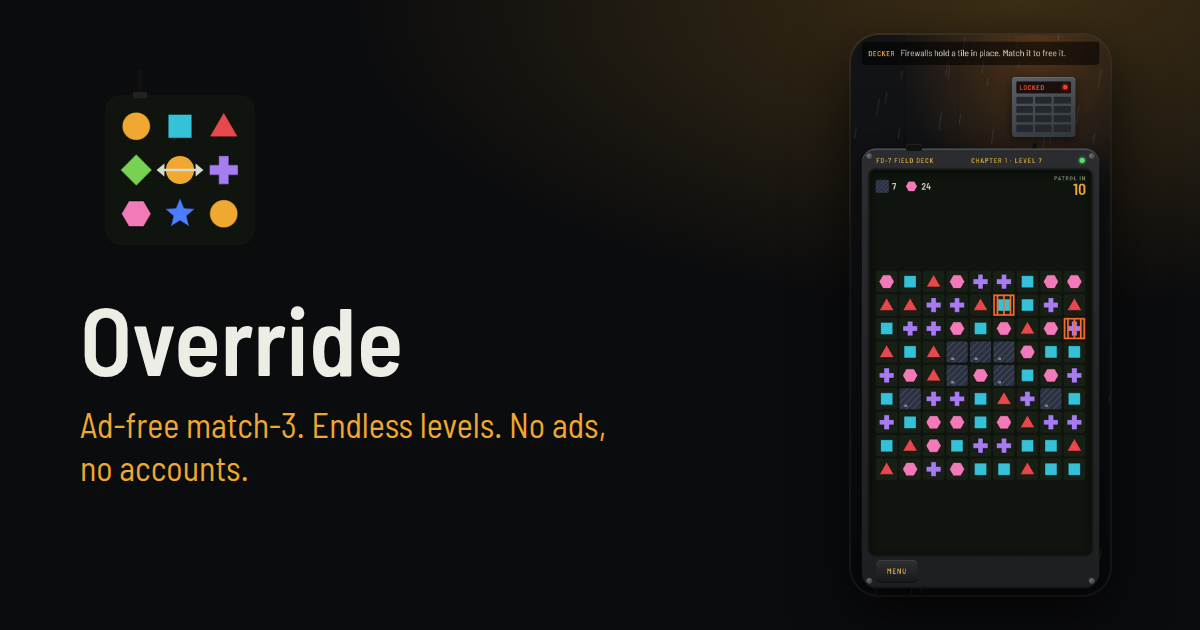
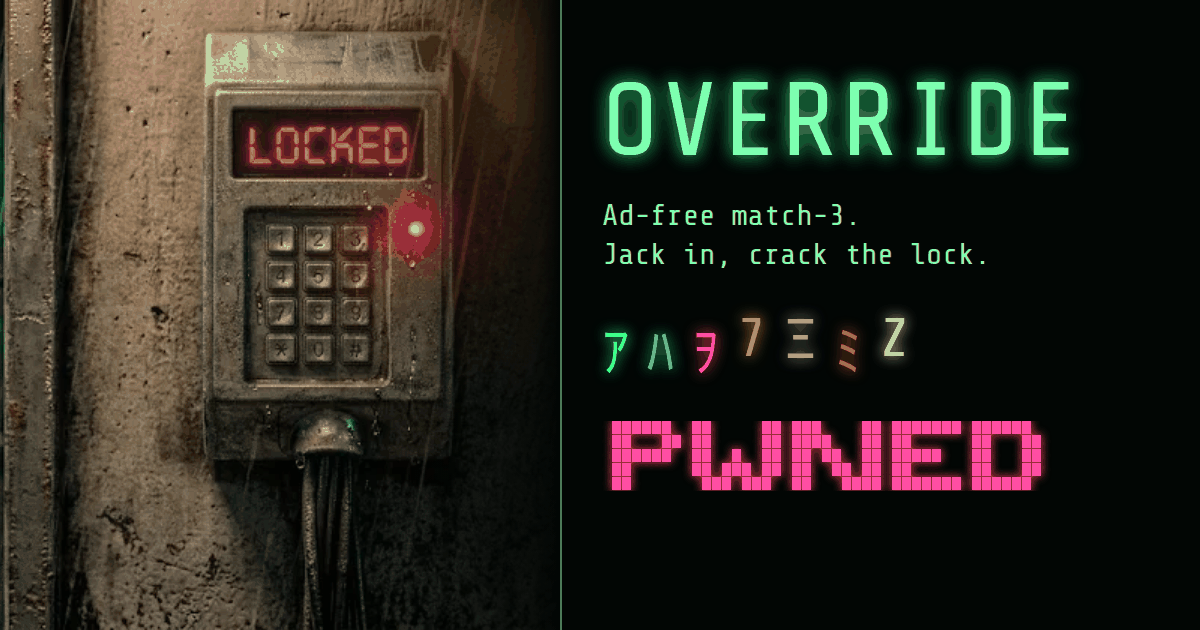
feat: link preview card in the new look

diff --git a/tools/og.html b/tools/og.html
@@ -1,0 +1,23 @@
+<!doctype html><meta charset="utf-8"><title>og</title>
+<style>
+@font-face{font-family:STM;src:url(../fonts/share-tech-mono-latin-400.woff2) format("woff2")}
+html,body{margin:0;background:#000}
+#c{position:relative;width:1200px;height:630px;overflow:hidden;background:#020604;font-family:STM,monospace;color:#7dffb0}
+#lock{position:absolute;left:0;top:0;width:560px;height:630px;background:url(../art/lock-closed.webp) 45% center/auto 100%}
+#lock::after{content:"";position:absolute;inset:0;background:linear-gradient(90deg,transparent 70%,#020604)}
+#p{position:absolute;left:560px;top:0;right:0;bottom:0;padding:70px 50px 0 40px;border-left:2px solid rgba(125,255,176,.45)}
+h1{margin:0;font:400 104px/1 STM,monospace;letter-spacing:4px;text-shadow:0 0 18px #31ff8a}
+p{margin:22px 0 34px;font-size:30px;line-height:1.3;color:#9fe8b8}
+#t{display:flex;gap:18px;font-size:54px;margin-bottom:34px}
+#t span{text-shadow:0 0 14px currentColor}
+canvas{display:block}
+</style>
+<div id="c"><div id="lock"></div><div id="p"><h1>OVERRIDE</h1><p>Ad-free match-3.<br>Jack in, crack the lock.</p><div id="t"></div><canvas id="w"></canvas></div></div>
+<script>
+const P=['#3dff8a','#35c2d9','#ff4fa3','#f2c230','#a77cf0','#ff6a2b','#e9f0ff'];
+[...'ｱﾊｦ7ΞﾐZ'].forEach((ch,i)=>{const s=document.createElement('span');s.textContent=ch;s.style.color=P[i];t.append(s)});
+const PWNED=[' ██████  ██     ██ ███    ██ ███████ ██████  ',' ██   ██ ██     ██ ████   ██ ██      ██   ██ ',' ██████  ██  █  ██ ██ ██  ██ █████   ██   ██ ',' ██      ██ ███ ██ ██  ██ ██ ██      ██   ██ ',' ██       ███ ███  ██   ████ ███████ ██████  '];
+const px=10,g=w.getContext('2d');w.width=PWNED[0].length*px;w.height=PWNED.length*px*1.4;
+g.fillStyle='#ff4fa3';g.shadowColor='#ff4fa3';g.shadowBlur=10;
+PWNED.forEach((r,i)=>[...r].forEach((c,j)=>{if(c==='█')g.fillRect(j*px,i*px*1.4,px-1,px*1.4-1)}));
+</script>
